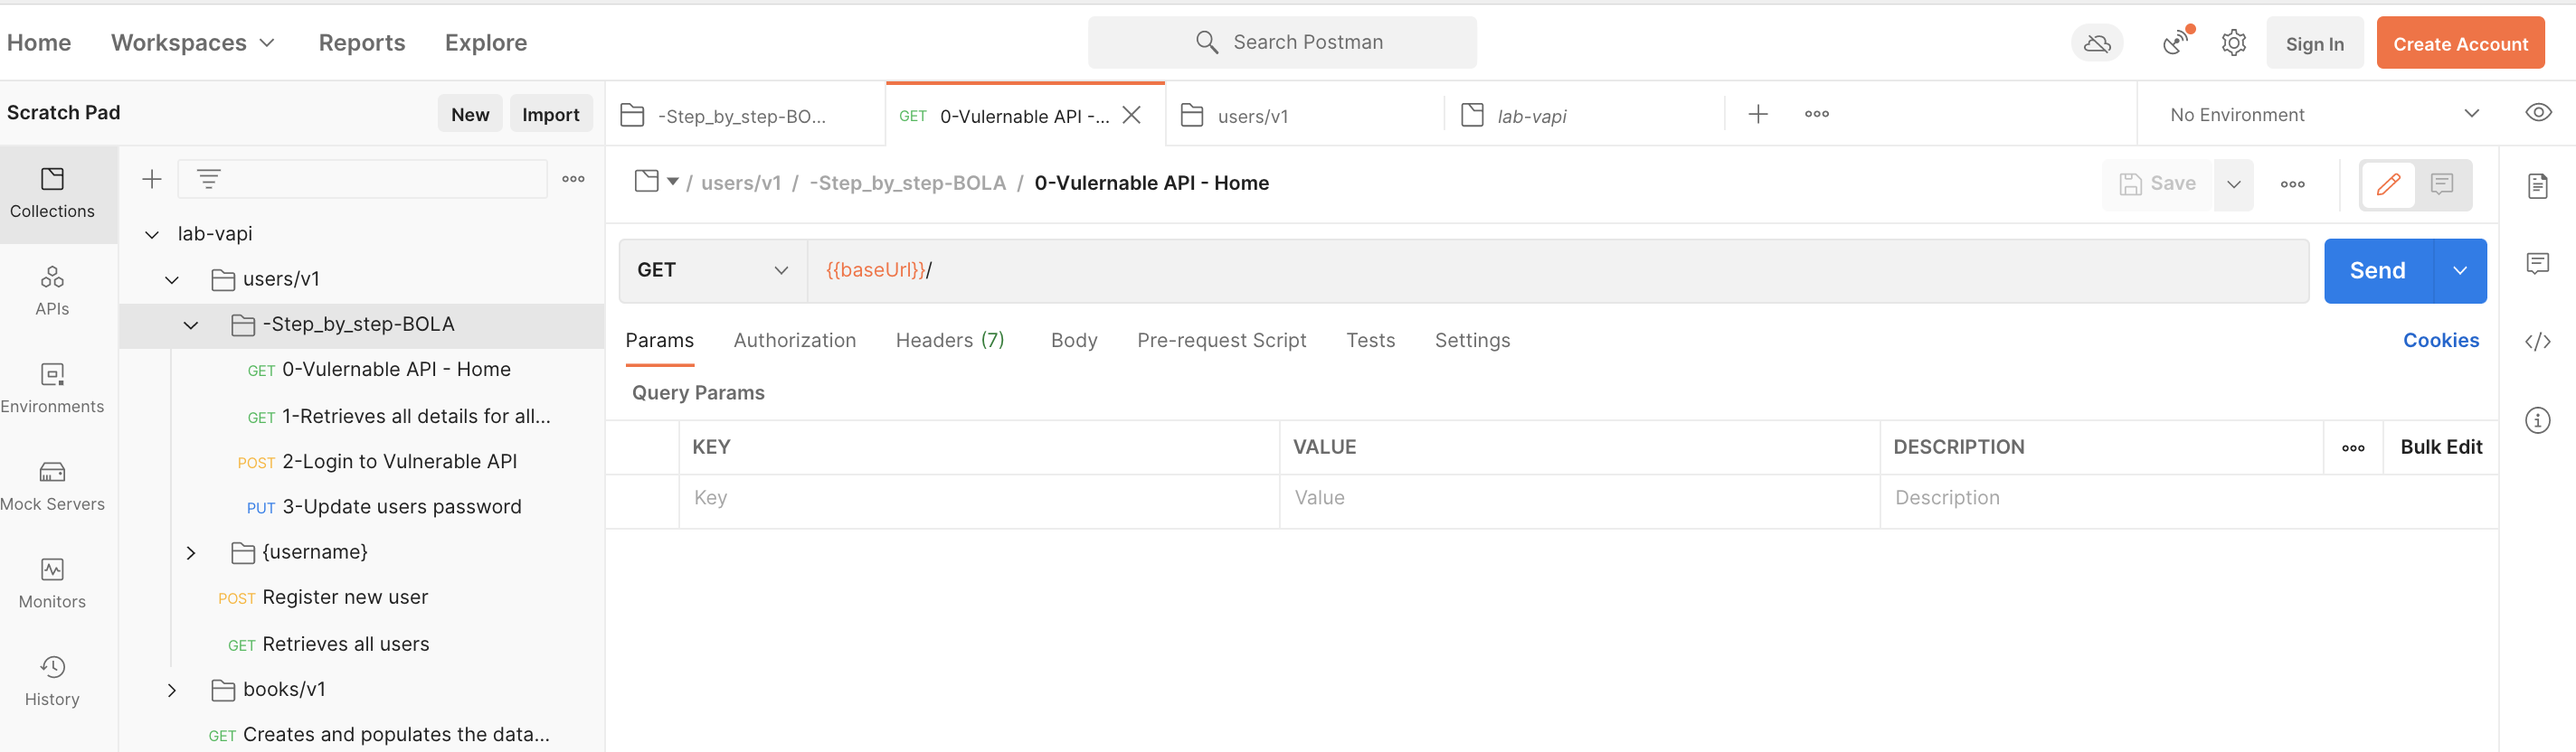
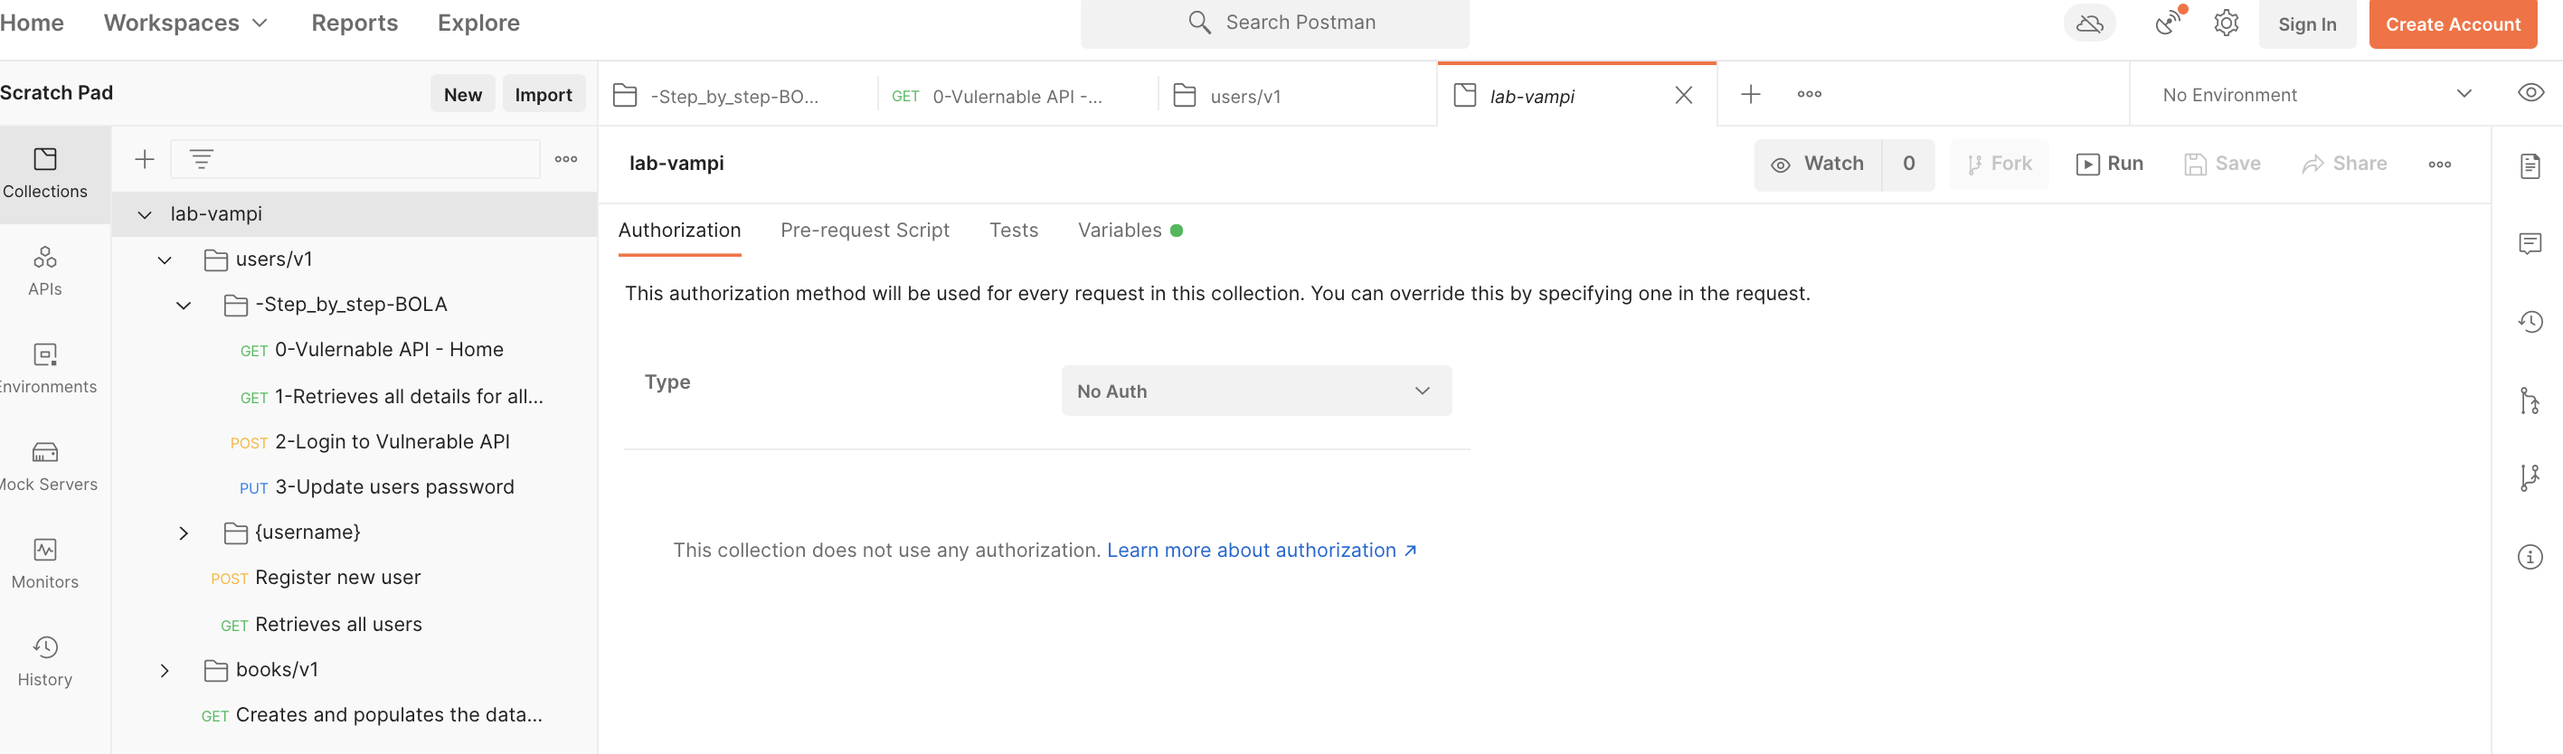
lab-vampi_rename

diff --git a/README.md b/README.md
@@ -91,22 +91,22 @@ There are several projects whereby you can quickly explore API vulnerabilities. 
 
 Deploy the vulnerable API environment
 ```
-docker run -d --name vulnerable_vapi --network noname_default -p 127.0.0.1:5000:5000 stevenduckaert/api-security:vulnerable
+docker run -d --name vulnerable_api --network noname_default -p 127.0.0.1:5000:5000 stevenduckaert/api-security:vulnerable
 ```
 #### Step Three:  Configure Kong
 - Create a Kong service
     ```
     curl -i -X POST http://127.0.0.1:8001/services \
-    --data name=lab-vapi \
+    --data name=lab-vampi \
     --data url='http://host.docker.internal:5000'
     ```
 - Verify the Kong Service connection
     ```
-    curl -i http://127.0.0.1:8001/services/lab-vapi
+    curl -i http://127.0.0.1:8001/services/lab-vampi
     ```
 - Create a Kong route
     ```
-    curl -i -X POST http://127.0.0.1:8001/services/lab-vapi/routes \
+    curl -i -X POST http://127.0.0.1:8001/services/lab-vampi/routes \
     --data 'paths[]=/v1' \
     --data name=v1
     ```
@@ -144,7 +144,7 @@ docker run -d --name vulnerable_vapi --network noname_default -p 127.0.0.1:5000:
 
   - You can show the service config by issuing
     ```
-    curl -i http://127.0.0.1:8001/services/lab-vapi
+    curl -i http://127.0.0.1:8001/services/lab-vampi
     ```
 
 - We will also configure authentication for the Kong v1 route 
@@ -193,7 +193,7 @@ docker run -d --name vulnerable_vapi --network noname_default -p 127.0.0.1:5000:
 To be added
 
 ### Postman Collection
-The [postman collection file](lab-vapi.postman_collection.json) contains all the requests needed to 'play' with your vunerable API environment. Just go to the import option and select the .json file:
+The [postman collection file](lab-vampi.postman_collection.json) contains all the requests needed to 'play' with your vunerable API environment. Just go to the import option and select the .json file:
 ![image](images/postman-import.png)
 
 ![image](images/postman-collection.png)
